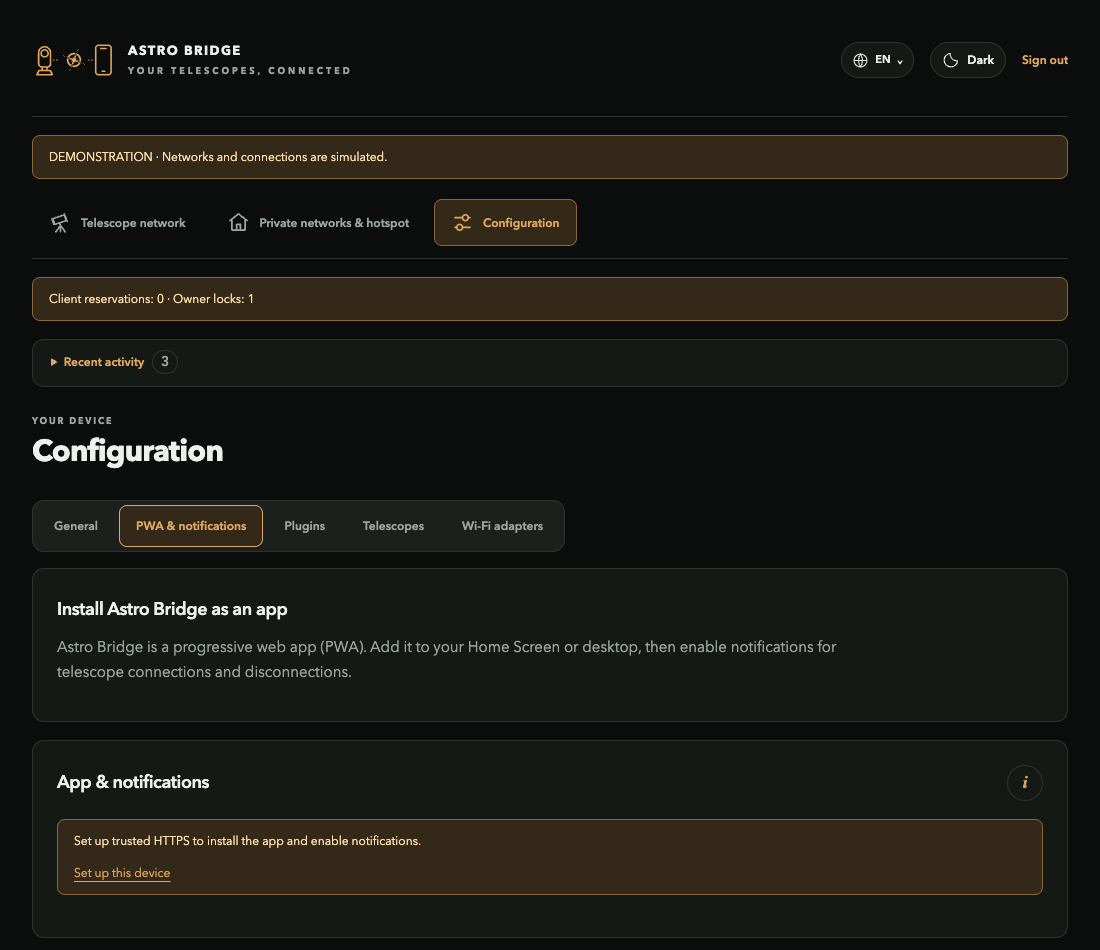
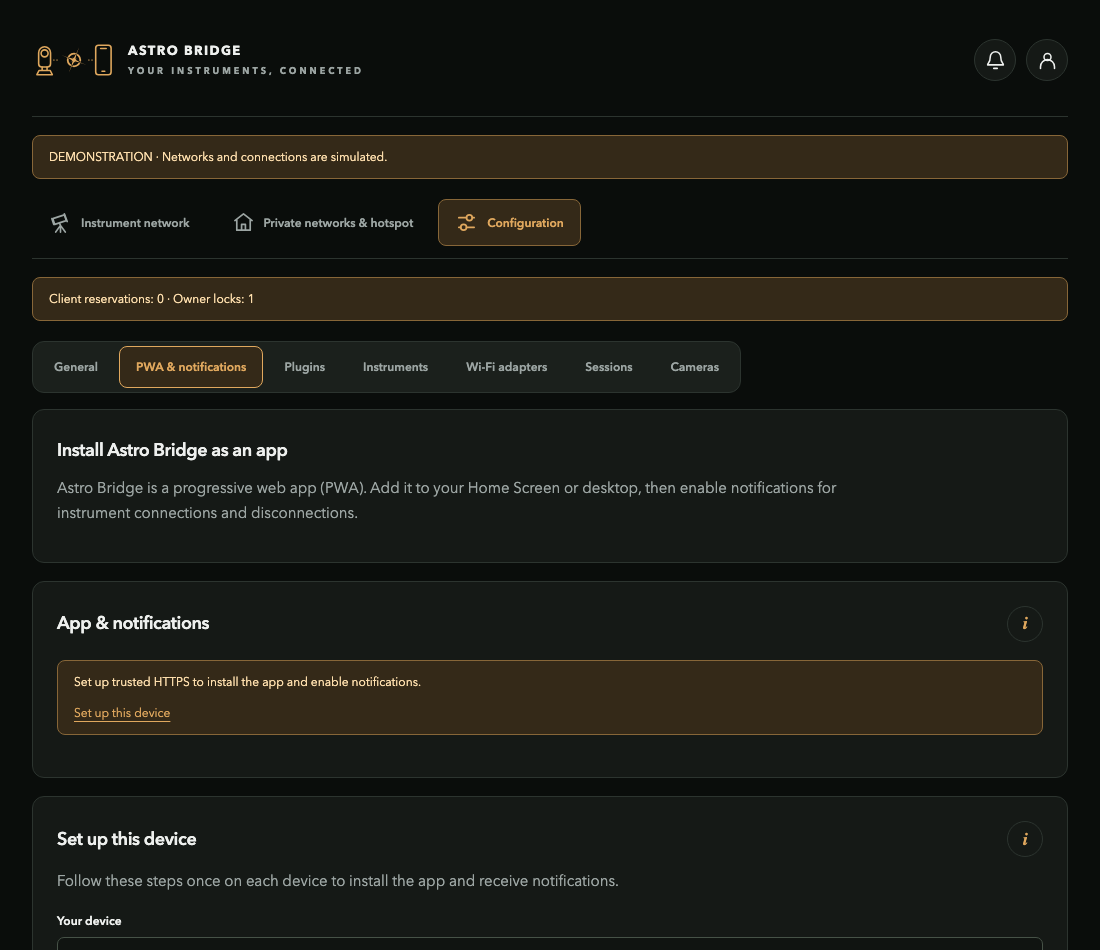
Docs: 1.2.0 screenshots with Instruments

diff --git a/doc/guides/mounts.md b/doc/guides/mounts.md
@@ -19,7 +19,7 @@ A compatible initial TCP connection to the bridge proxy can request selection of
 
 ## SynScan
 
-The adapter recognizes a scoped version search, selects eligible saved equipment, and relays the supported request/reply exchange. Replies must match the expected axis, sender/interface and format. Unselected devices do not receive arbitrary broadcast commands.
+The adapter recognizes a scoped version search, selects eligible saved instruments, and relays the supported request/reply exchange. Replies must match the expected axis, sender/interface and format. Unselected devices do not receive arbitrary broadcast commands.
 
 UDP **11880 is a protocol transport**, not an unsolicited beacon. If automatic search is unavailable in a client, select its fixed-IP connection mode and enter the bridge address.
 

diff --git a/doc/getting-started.md b/doc/getting-started.md
@@ -24,7 +24,7 @@ python3 -m wifi_bridge --demo --demo-radios 4
 
 Open **http://127.0.0.1:8787**. Password: **`12345678`**. Configuration is stored in `.runtime/`; no real radios or telescope commands are used.
 
-![Saved equipment in the demo](images/saved-equipment.png)
+![Instruments in the demo](images/saved-equipment.png)
 
 ## Install a verified release
 
